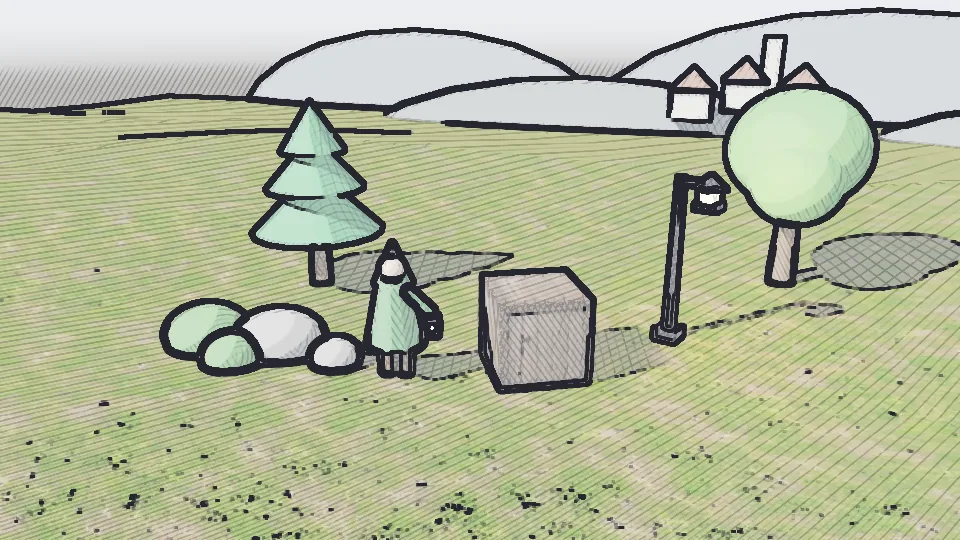
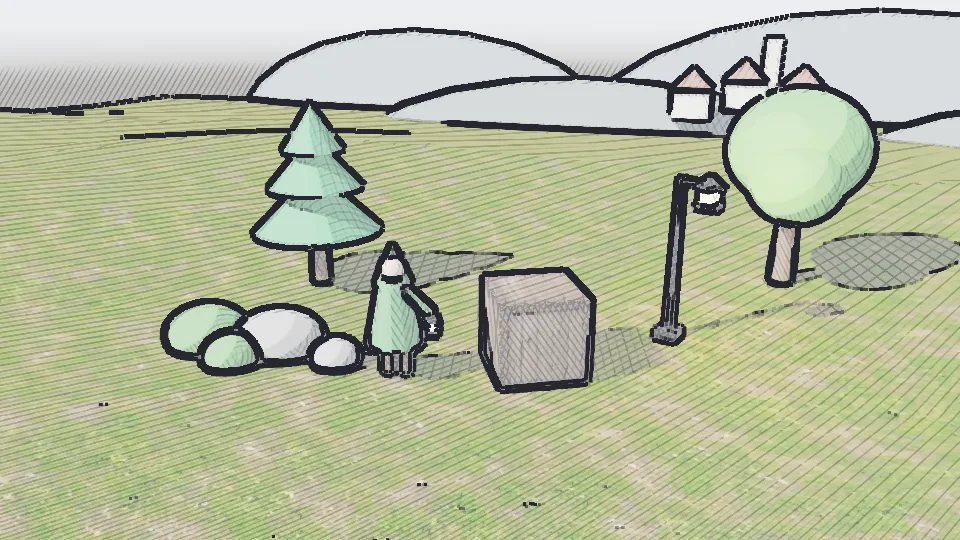
og-render: luminance ink only where an edge runs on
inked-comic-3d scattered black dots over its near ground: the meadow is
a textured mesh, not a clump, so every dark speck in its soil passed
inkThreshold and was inked. A luminance edge now inks only where it
holds, with about the same direction, half way and six pixels on along
itself to at least one side. A speck's edge curls round within a few
pixels and draws nothing; long edges, creases' steps and thin lines keep
their line to the end. The structure tensor's coherence was tried first
and does not tell them apart: sampled two pixels apart, a speck of two
to four pixels reads as directional. inked-comic-3d's preview is
re-rendered.

Amp-Thread-ID: https://ampcode.com/threads/T-01a1e039-7674-7147-b46e-d690580bf4b8

diff --git a/crates/og-api/guides/looks.md b/crates/og-api/guides/looks.md
@@ -196,6 +196,10 @@ and the dither cells.
 - Ink without inkDepth draws on luminance edges over every surface,
   sprite and texture alike, and needs no prepass. Add inkDepth for
   contours round flat colours that luminance alone misses.
+- A luminance edge is inked only where it runs on along itself for six
+  pixels on at least one side. A dark speck or mottle in a texture curls
+  round within a few pixels and draws no ink; a long edge, a crease's
+  step or a thin line keeps its line to its end.
 - With a prepass (an outline, inkDepth, hatchingDepth or a surface
   space), scattered copies, impostors, grass and terrain are masses: ink
   keeps to their silhouettes and their hatching is laid on the screen,

diff --git a/packages/knowledge/wiki/guide-looks.md b/packages/knowledge/wiki/guide-looks.md
@@ -207,6 +207,10 @@ and the dither cells.
 - Ink without inkDepth draws on luminance edges over every surface,
   sprite and texture alike, and needs no prepass. Add inkDepth for
   contours round flat colours that luminance alone misses.
+- A luminance edge is inked only where it runs on along itself for six
+  pixels on at least one side. A dark speck or mottle in a texture curls
+  round within a few pixels and draws no ink; a long edge, a crease's
+  step or a thin line keeps its line to its end.
 - With a prepass (an outline, inkDepth, hatchingDepth or a surface
   space), scattered copies, impostors, grass and terrain are masses: ink
   keeps to their silhouettes and their hatching is laid on the screen,
